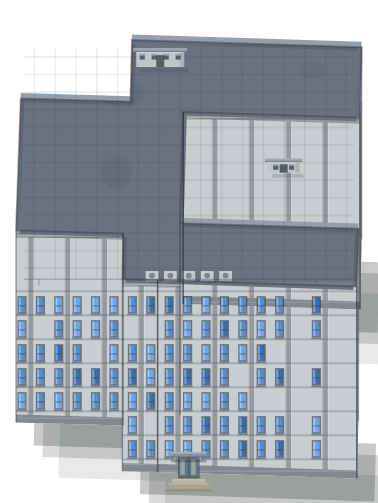
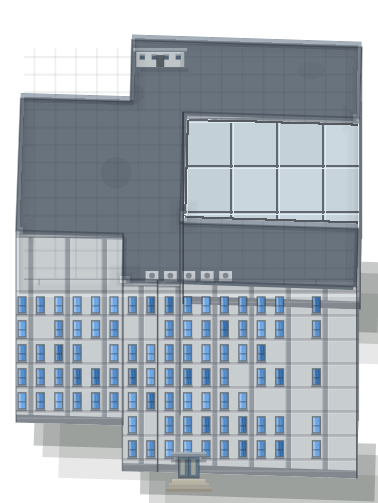
feat(art): 教学西楼C/B座、东楼D座屋顶浅灰板补成采光天窗

Changed region(s): [[0.4656, 0.2386, 0.9603, 0.4473]]

diff --git a/tools/enhance_roofs.py b/tools/enhance_roofs.py
@@ -24,6 +24,7 @@
 """
 import os
 import sys
+from collections import deque
 
 import numpy as np
 from PIL import Image, ImageDraw, ImageFilter
@@ -39,7 +40,8 @@ OUT = os.path.join(ROOT, "assets", "buildings")
 BAK = os.path.join(os.path.dirname(ROOT), "backup", "before-roof-20261117")
 RECTS = os.path.join(BAK, "skylight_rects.json")
 
-TARGETS = [53, 54, 55, 56, 57]   # 海天苑大楼群：纯色大板 → 采光天窗 / 内院绿化
+TARGETS = [53, 54, 55, 56, 57,   # 海天苑大楼群：纯色大板 → 采光天窗 / 内院绿化
+           27, 28, 29, 30, 31, 36, 37, 38, 39]  # 教学西楼/东楼 9 栋：带分隔线的浅灰板 → 采光顶
 # 11/25/32/43 这类「深蓝灰 + 40px 网格」的大屋顶试过压顶 + 板块明暗：板块会切出
 # 硬边田字格，实机像屋顶裂成几块，比原样更差，所以不做。它们本来就够规整。
 ARCH = []                        # 翱翔游泳馆试过「柔化密横条纹 + 弧面受光 + 顶部采光带」：
@@ -52,9 +54,11 @@ ARCH_BAND_IN = 20                # 采光带起始深度（距轮廓层数）
 ARCH_BAND_W = 13                 # 采光带宽度（层数）
 
 PALE_RGB = (188, 194, 200)      # 纯色大板的底色
-PALE_TOL = 14
+PALE_TOL = 18
 PALE_MIN_AREA = 3000
-PALE_MIN_FILL = 0.88            # bbox 内覆盖率下限，防止把散点当大板
+PALE_MIN_FILL = 0.88            # 纯色矩形的 bbox 覆盖率下限
+PALE_SPLIT_FILL = 0.55          # 带分隔线大板的 bbox 内原色占比下限
+CLOSE_K = 13                    # 形态学闭运算核：弥合教学楼板上的深灰分隔线
 
 SKY_BASE = (200, 212, 220)      # 天窗玻璃底（偏青，反射天空）
 SKY_CELL = 46                   # 格架间距
@@ -123,22 +127,73 @@ def roof_region(a, gtop):
     return (a[:, :, 3] == 255) & (Y < gtop) & (Y > 2)
 
 
+def largest_component(m):
+    """4 邻域最大连通块（不引 scipy）。"""
+    H, W = m.shape
+    seen = np.zeros_like(m, bool)
+    ys, xs = np.where(m)
+    best, best_n = None, 0
+    for sy, sx in zip(ys, xs):
+        if seen[sy, sx]:
+            continue
+        q = deque([(sy, sx)])
+        seen[sy, sx] = True
+        pts = []
+        while q:
+            y, x = q.popleft()
+            pts.append((y, x))
+            for dy, dx in ((1, 0), (-1, 0), (0, 1), (0, -1)):
+                ny, nx = y + dy, x + dx
+                if 0 <= ny < H and 0 <= nx < W and m[ny, nx] and not seen[ny, nx]:
+                    seen[ny, nx] = True
+                    q.append((ny, nx))
+        if len(pts) > best_n:
+            best, best_n = pts, len(pts)
+    return best, best_n
+
+
 def find_pale_slabs(a, roof):
+    """找屋顶上的浅灰大板，返回 [(bbox, 绘制掩膜 or None)]。
+
+    两种形态：
+      * 海天苑那种纯色完美矩形 —— 直接按原色掩膜画；
+      * 教学楼那种被深灰分隔线切开的板 —— 先形态学闭运算弥合缝，
+        再取最大连通块作为绘制掩膜（重新画格架，缝不用保留）。
+    """
     r, g, b = a[:, :, 0].astype(int), a[:, :, 1].astype(int), a[:, :, 2].astype(int)
     m = (np.abs(r - PALE_RGB[0]) < PALE_TOL) & (np.abs(g - PALE_RGB[1]) < PALE_TOL) \
         & (np.abs(b - PALE_RGB[2]) < PALE_TOL) & roof
     if m.sum() < PALE_MIN_AREA:
         return []
-    # 只保留主体块：腐蚀后剩下的最大连通区域用 bbox 近似（这些板实测都是矩形）
+
+    # 1) 纯色矩形
     core = erode(m, 2)
-    if not core.any():
+    if core.any():
+        ys, xs = np.where(core)
+        x0, x1, y0, y1 = xs.min(), xs.max(), ys.min(), ys.max()
+        box = m[y0:y1 + 1, x0:x1 + 1]
+        if box.sum() / box.size >= PALE_MIN_FILL:
+            return [((int(x0), int(y0), int(x1), int(y1)), None)]
+
+    # 2) 带分隔线：闭运算补缝 → 最大连通块
+    im = Image.fromarray((m * 255).astype(np.uint8), "L")
+    im = im.filter(ImageFilter.MaxFilter(CLOSE_K)).filter(ImageFilter.MinFilter(CLOSE_K))
+    closed = np.asarray(im) > 127
+    pts, n = largest_component(closed)
+    if pts is None or n < PALE_MIN_AREA:
         return []
-    ys, xs = np.where(core)
-    x0, x1, y0, y1 = xs.min(), xs.max(), ys.min(), ys.max()
-    box = m[y0:y1 + 1, x0:x1 + 1]
-    if box.sum() / box.size < PALE_MIN_FILL:
+    py = np.array([p[0] for p in pts])
+    px = np.array([p[1] for p in pts])
+    x0, x1, y0, y1 = int(px.min()), int(px.max()), int(py.min()), int(py.max())
+    if (y1 - y0 + 1) * (x1 - x0 + 1) == 0:
         return []
-    return [(x0, y0, x1, y1)]
+    # 原色在这个 bbox 里必须占多数，避免把屋顶上零散的浅灰连成一片
+    fill = m[y0:y1 + 1, x0:x1 + 1].sum() / ((y1 - y0 + 1) * (x1 - x0 + 1))
+    if fill < PALE_SPLIT_FILL:
+        return []
+    mask = np.zeros_like(m, bool)
+    mask[py, px] = True
+    return [((x0, y0, x1, y1), mask)]
 
 
 def draw_skylight(a, rect, mask=None):
@@ -347,8 +402,9 @@ def enhance(a_in, idx):
     solid_before = a_in[:, :, 3] == 255
     stat = {"roof": int(roof.sum()), "gtop": gtop, "sky": 0, "green": 0, "rects": []}
 
-    for rect in find_pale_slabs(a_in, roof):
-        stat["sky"] += draw_skylight(a, rect)
+    for rect, pmask in find_pale_slabs(a_in, roof):
+        local = None if pmask is None else pmask[rect[1]:rect[3] + 1, rect[0]:rect[2] + 1]
+        stat["sky"] += draw_skylight(a, rect, mask=local)
         stat["rects"].append([int(v) for v in rect])
     stat["green"] = draw_green_roof(a, roof)
     if idx in ARCH:
